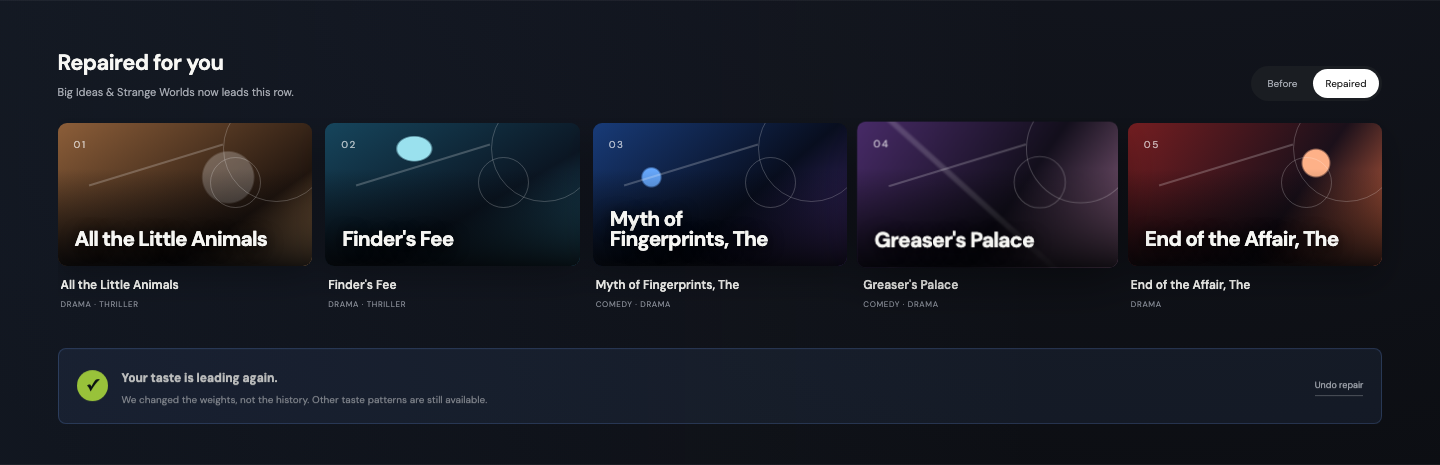
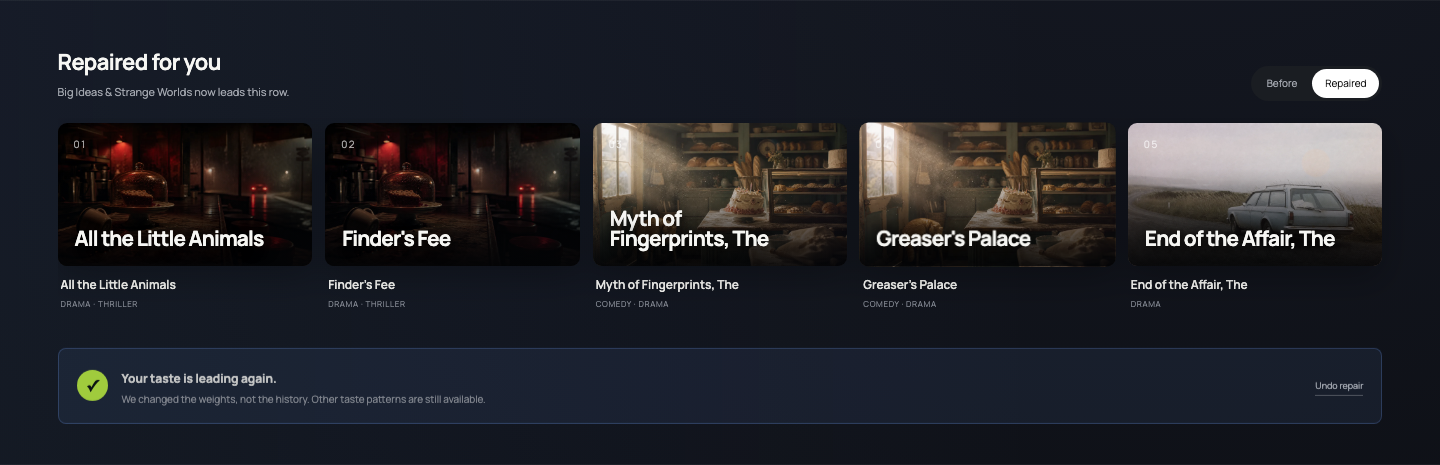
feat: give SplitTaste a cinematic data journal

diff --git a/app/globals.css b/app/globals.css
@@ -9,7 +9,8 @@
   --line: rgba(255, 255, 255, .12);
   --lime: #c9ff45;
   --blue: #75a8ff;
-  --sans: "DM Sans Variable", sans-serif;
+  --sans: "Manrope Variable", sans-serif;
+  --editorial: "Newsreader Variable", Georgia, serif;
 }
 
 * { box-sizing: border-box; }
@@ -39,9 +40,8 @@ button:focus-visible, a:focus-visible, summary:focus-visible { outline: 2px soli
 .living-room-art { position: absolute; inset: 0; background: linear-gradient(120deg, #32251d, #0b0c10 56%, #1a2334); }
 .window-glow { position: absolute; width: 42vw; height: 54vw; max-height: 780px; right: 5vw; top: -16vw; background: radial-gradient(ellipse, rgba(110,151,223,.82), rgba(55,72,106,.25) 38%, transparent 68%); transform: rotate(-9deg); filter: blur(4px); }
 .tv-frame { position: absolute; width: min(48vw, 720px); aspect-ratio: 16/9; right: 7vw; top: 18%; padding: 10px; border-radius: 10px; background: #050608; box-shadow: 0 45px 100px #000, 0 0 120px rgba(73,105,168,.34); transform: perspective(1100px) rotateY(-8deg); }
-.tv-light { width: 100%; height: 100%; position: relative; overflow: hidden; display: grid; place-items: center; background: linear-gradient(135deg, #48536b, #131b2b 42%, #b27960); }
-.tv-light::before { content: ""; position: absolute; inset: 0; background: radial-gradient(circle at 70% 35%, #e9b39d 0 4%, transparent 5%), linear-gradient(125deg, transparent 40%, rgba(255,255,255,.13) 41%, transparent 42%), linear-gradient(to top, #0c1019, transparent 55%); }
-.tv-light::after { content: ""; width: 28%; height: 68%; background: #090b10; border-radius: 45% 45% 12% 12%; transform: translateY(24%); box-shadow: 160px 45px 0 -35px #161119; opacity: .82; }
+.tv-light { width: 100%; height: 100%; position: relative; overflow: hidden; display: grid; place-items: center; background: url("/images/film-stills/blue-orbit.webp") center / cover; }
+.tv-light::before { content: ""; position: absolute; inset: 0; background: linear-gradient(125deg, transparent 40%, rgba(255,255,255,.13) 41%, transparent 42%), linear-gradient(to top, rgba(5,8,15,.86), transparent 58%); }
 .tv-light span { position: absolute; z-index: 2; bottom: 8%; left: 6%; font-size: 11px; letter-spacing: .25em; color: rgba(255,255,255,.7); }
 .couch { position: absolute; right: -3vw; bottom: -9%; width: 63vw; height: 37%; border-radius: 48% 22% 0 0; background: linear-gradient(165deg, #211f20, #08090b 70%); box-shadow: inset 0 18px 30px rgba(255,255,255,.025); }
 .couch i { position: absolute; width: 22%; height: 46%; top: 7%; border-radius: 48% 48% 10% 10%; background: #161617; box-shadow: 0 12px 25px #050506; }
@@ -66,6 +66,7 @@ button:focus-visible, a:focus-visible, summary:focus-visible { outline: 2px soli
 .hero-facts span { border: 1px solid rgba(255,255,255,.19); border-radius: 999px; padding: 6px 10px; color: #c2c5cb; font-size: 9px; text-transform: uppercase; letter-spacing: .11em; }
 
 .catalog { position: relative; z-index: 4; margin-top: -52px; padding-bottom: 80px; }
+.catalog-art-note { margin: 0 4vw 4px; color: #737985; font-size: 8px; letter-spacing: .11em; text-transform: uppercase; text-align: right; }
 .content-rail { padding: 32px 0 22px 4vw; scroll-margin-top: 80px; }
 .content-rail > header { padding-right: 4vw; display: flex; justify-content: space-between; align-items: flex-end; gap: 30px; margin-bottom: 17px; }
 .content-rail > header h2 { margin: 0; font-size: 22px; letter-spacing: -.025em; font-weight: 650; }
@@ -75,7 +76,9 @@ button:focus-visible, a:focus-visible, summary:focus-visible { outline: 2px soli
 .movie-card { scroll-snap-align: start; min-width: 0; }
 .movie-art { aspect-ratio: 16/9; border-radius: 9px; position: relative; overflow: hidden; isolation: isolate; padding: 17px; display: flex; flex-direction: column; justify-content: flex-end; box-shadow: 0 12px 34px rgba(0,0,0,.28); transform: translateZ(0); transition: transform .25s, box-shadow .25s; }
 .movie-card:hover .movie-art { transform: scale(1.035); box-shadow: 0 18px 45px rgba(0,0,0,.46); z-index: 2; }
-.movie-art::before { content: ""; position: absolute; inset: 0; z-index: -2; background: var(--card-bg); }
+.movie-still { z-index: -3; object-fit: cover; transition: transform .55s cubic-bezier(.2,.8,.2,1), filter .3s; }
+.movie-card:hover .movie-still { transform: scale(1.055); }
+.movie-art::before { content: ""; position: absolute; inset: 0; z-index: -2; background: var(--card-bg); mix-blend-mode: color; opacity: .14; }
 .movie-art::after { content: ""; position: absolute; inset: 0; z-index: -1; background: linear-gradient(to top, rgba(4,5,7,.9), transparent 68%); }
 .theme-ember { --card-bg: radial-gradient(circle at 74% 28%, #ffb289 0 6%, transparent 7%), linear-gradient(125deg, #761f22, #1c111b 62%, #db6b45); }
 .theme-ocean { --card-bg: radial-gradient(ellipse at 35% 18%, #9be2ef 0 7%, transparent 8%), linear-gradient(150deg, #17465d, #0c1724 60%, #276781); }
@@ -115,33 +118,43 @@ button:focus-visible, a:focus-visible, summary:focus-visible { outline: 2px soli
 .story-body ul { list-style: none; padding: 25px 0 0; margin: 25px 0 0; border-top: 1px solid rgba(17,18,20,.2); }
 .story-body li { padding: 8px 0; border-bottom: 1px solid rgba(17,18,20,.13); }
 
-.research-section { padding: 115px 6vw; background: #14161a; }
-.research-hero { display: grid; grid-template-columns: 1.4fr .6fr; gap: 8vw; align-items: end; }
-.research-hero > div > p, .pipeline-copy > p, .chart-heading p, .finding-grid article > p { color: #848993; font-size: 9px; letter-spacing: .14em; text-transform: uppercase; }
-.research-hero h2 { font-size: clamp(43px, 5vw, 72px); line-height: .98; letter-spacing: -.05em; margin: 17px 0 0; max-width: 900px; }
-.research-hero > p { color: var(--muted); line-height: 1.65; font-size: 13px; margin: 0; }
-.data-scale-grid { margin-top: 75px; display: grid; grid-template-columns: 1.2fr repeat(4, 1fr); border-top: 1px solid var(--line); border-bottom: 1px solid var(--line); }
+.research-section { --line: rgba(25,23,19,.2); --muted: #6f6a61; --lime: #96392e; --blue: #315e68; padding: 95px 6vw 115px; background: #e8e2d7; color: #181713; }
+.research-hero { display: grid; grid-template-columns: .82fr 1.18fr; gap: 6vw; align-items: stretch; }
+.research-title { padding: 6px 0 30px; display: flex; flex-direction: column; align-items: flex-start; }
+.research-title > p, .pipeline-copy > p, .chart-heading p, .finding-grid article > p { color: #736e65; font-size: 9px; letter-spacing: .16em; text-transform: uppercase; }
+.research-title h2 { font-family: var(--editorial); font-size: clamp(66px, 8vw, 122px); font-weight: 450; line-height: .78; letter-spacing: -.065em; margin: auto 0 35px; }
+.research-title h2 em { color: #96392e; font-weight: 360; }
+.research-title > span { padding-top: 14px; border-top: 1px solid var(--line); color: #59554f; font-size: 11px; text-transform: uppercase; letter-spacing: .11em; }
+.research-hero-still { min-height: 590px; margin: 0; position: relative; overflow: hidden; background: #20242c; }
+.research-hero-still > img { position: absolute; inset: 0; width: 100%; height: 100%; object-fit: cover; }
+.research-hero-still::after { content: ""; position: absolute; inset: 0; box-shadow: inset 0 0 0 1px rgba(0,0,0,.16); pointer-events: none; }
+.research-hero-still figcaption { position: absolute; inset: auto 0 0; z-index: 1; padding: 17px 20px; display: flex; justify-content: space-between; gap: 25px; color: #f4f0e8; background: linear-gradient(transparent, rgba(6,8,13,.88)); font-size: 9px; letter-spacing: .08em; text-transform: uppercase; }
+.research-hero-still figcaption b { color: #cfdb54; }
+.research-deck { margin-top: 44px; padding: 24px 0; border-top: 1px solid var(--line); border-bottom: 1px solid var(--line); display: grid; grid-template-columns: 1.2fr .8fr; gap: 8vw; align-items: start; }
+.research-deck p { max-width: 780px; margin: 0; font-family: var(--editorial); font-size: clamp(35px, 4.3vw, 68px); line-height: .93; letter-spacing: -.045em; }
+.research-deck span { color: #625e57; font-size: 12px; line-height: 1.7; }
+.data-scale-grid { margin-top: 75px; display: grid; grid-template-columns: 1.2fr repeat(4, 1fr); border-top: 2px solid #181713; border-bottom: 1px solid var(--line); }
 .data-scale-grid > div { min-height: 150px; padding: 25px 20px; border-right: 1px solid var(--line); display: flex; flex-direction: column; justify-content: space-between; }
 .data-scale-grid > div:last-child { border-right: 0; }
-.data-scale-grid strong { font-size: clamp(28px, 3vw, 46px); letter-spacing: -.055em; font-weight: 560; }
+.data-scale-grid strong { font-family: var(--editorial); font-size: clamp(36px, 4vw, 62px); letter-spacing: -.055em; font-weight: 430; }
 .data-scale-grid span { color: var(--muted); font-size: 9px; text-transform: uppercase; letter-spacing: .1em; }
 .scale-intro p { color: var(--lime); font-size: 9px; text-transform: uppercase; letter-spacing: .13em; margin: 0; }
 .scale-intro h3 { margin: auto 0 5px; font-size: 25px; }
 .pipeline-story { margin-top: 90px; display: grid; grid-template-columns: .65fr 1.35fr; gap: 6vw; align-items: start; }
-.pipeline-copy h3 { font-size: clamp(30px, 3.4vw, 49px); line-height: 1.02; letter-spacing: -.045em; margin: 16px 0 20px; }
+.pipeline-copy h3 { font-family: var(--editorial); font-size: clamp(38px, 4.5vw, 66px); font-weight: 420; line-height: .93; letter-spacing: -.045em; margin: 16px 0 20px; }
 .pipeline-copy > span { color: var(--muted); font-size: 11px; line-height: 1.55; }
 .pipeline-flow { display: grid; grid-template-columns: 1fr auto 1fr auto 1fr auto 1fr; align-items: stretch; }
-.pipeline-flow > div { min-height: 205px; padding: 19px; border: 1px solid var(--line); display: flex; flex-direction: column; }
+.pipeline-flow > div { min-height: 205px; padding: 19px; border-top: 2px solid #181713; border-bottom: 1px solid var(--line); display: flex; flex-direction: column; }
 .pipeline-flow > i { align-self: center; color: #717680; padding: 0 7px; font-style: normal; }
 .pipeline-flow b { color: var(--lime); font-size: 9px; letter-spacing: .14em; }
 .pipeline-flow strong { font-size: 17px; margin-top: auto; }
 .pipeline-flow span { font-size: 11px; margin-top: 8px; }
 .pipeline-flow small { color: var(--muted); font-size: 8px; line-height: 1.5; margin-top: 8px; }
 .research-charts { margin-top: 95px; display: grid; grid-template-columns: .85fr 1.15fr; gap: 14px; }
-.correction-chart, .cohort-explorer { min-width: 0; background: #f0eee7; color: #131518; border-radius: 10px; padding: 27px; }
+.correction-chart, .cohort-explorer { min-width: 0; background: #d8d0c2; color: #131518; border-radius: 0; padding: 30px; border-top: 5px solid #181713; }
 .chart-heading { display: flex; justify-content: space-between; align-items: flex-start; gap: 20px; min-height: 75px; }
 .chart-heading p { color: #6d7074; margin: 0 0 9px; }
-.chart-heading h3 { font-size: 23px; line-height: 1.05; letter-spacing: -.035em; margin: 0; }
+.chart-heading h3 { font-family: var(--editorial); font-size: 30px; font-weight: 440; line-height: .98; letter-spacing: -.035em; margin: 0; }
 .chart-heading > span { color: #777a7f; font-size: 8px; text-transform: uppercase; letter-spacing: .1em; text-align: right; }
 .correction-chart svg { width: 100%; margin-top: 30px; overflow: visible; }
 .correction-chart .grid-line { stroke: #d2d0ca; stroke-width: 1; }
@@ -166,23 +179,30 @@ button:focus-visible, a:focus-visible, summary:focus-visible { outline: 2px soli
 .cohort-delta { justify-self: end; color: #237544; font-size: 9px; font-variant-numeric: tabular-nums; }
 .cohort-delta.negative { color: #b33f36; }
 .cohort-reading { color: #7c7f83; font-size: 8px; line-height: 1.45; margin: 18px 0 0; }
-.finding-grid { margin-top: 14px; display: grid; grid-template-columns: repeat(3, 1fr); gap: 1px; background: var(--line); border: 1px solid var(--line); }
-.finding-grid article { background: #14161a; padding: 30px; min-height: 230px; display: flex; flex-direction: column; }
+.research-contact-sheet { margin-top: 14px; display: grid; grid-template-columns: repeat(3, 1fr); gap: 8px; }
+.research-contact-sheet figure { min-height: 260px; margin: 0; position: relative; overflow: hidden; background: #202020; }
+.research-contact-sheet img { position: absolute; inset: 0; width: 100%; height: 100%; object-fit: cover; filter: saturate(.88); transition: transform .5s ease, filter .3s; }
+.research-contact-sheet figure:hover img { transform: scale(1.03); filter: saturate(1); }
+.research-contact-sheet figcaption { position: absolute; inset: auto 0 0; z-index: 1; padding: 45px 14px 13px; display: flex; justify-content: space-between; color: white; background: linear-gradient(transparent, rgba(5,5,5,.85)); font-size: 9px; text-transform: uppercase; letter-spacing: .1em; }
+.research-contact-sheet figcaption b { color: #cfdb54; }
+.art-credit { margin: 9px 0 0; color: #777168; font-size: 8px; text-align: right; }
+.finding-grid { margin-top: 70px; display: grid; grid-template-columns: repeat(3, 1fr); gap: 1px; background: var(--line); border-top: 2px solid #181713; border-bottom: 1px solid var(--line); }
+.finding-grid article { background: #e8e2d7; padding: 30px; min-height: 230px; display: flex; flex-direction: column; }
 .finding-grid article > p { color: var(--lime); margin: 0; }
-.finding-grid strong { font-size: 20px; line-height: 1.15; margin-top: auto; }
+.finding-grid strong { font-family: var(--editorial); font-size: 27px; font-weight: 450; line-height: 1.05; margin-top: auto; }
 .finding-grid span { color: var(--muted); font-size: 10px; line-height: 1.55; margin-top: 14px; }
 .role-proof { margin-top: 75px; display: grid; grid-template-columns: repeat(3, 1fr); border-top: 1px solid var(--line); border-bottom: 1px solid var(--line); }
 .role-proof > div { padding: 25px; border-right: 1px solid var(--line); }
 .role-proof > div:last-child { border-right: 0; }
 .role-proof span { color: var(--blue); font-size: 9px; text-transform: uppercase; letter-spacing: .12em; }
-.role-proof p { color: #c1c4ca; font-size: 11px; line-height: 1.55; margin: 14px 0 0; }
+.role-proof p { color: #4f4c46; font-size: 11px; line-height: 1.55; margin: 14px 0 0; }
 .evidence-panel { margin-top: 70px; border-top: 1px solid var(--line); border-bottom: 1px solid var(--line); }
 .evidence-panel summary { list-style: none; padding: 22px 0; display: flex; justify-content: space-between; cursor: pointer; font-size: 12px; }
 .evidence-panel summary span:last-child { color: var(--muted); font-size: 10px; }
 .evidence-panel summary b { color: var(--lime); padding-left: 12px; }
 .evidence-grid { display: grid; grid-template-columns: .8fr 1fr; gap: 55px; padding: 30px 0 60px; }
 .metric-lead p { color: var(--muted); font-size: 9px; text-transform: uppercase; letter-spacing: .13em; }
-.metric-lead strong { display: block; font-size: 90px; line-height: 1; letter-spacing: -.07em; font-weight: 500; }
+.metric-lead strong { display: block; font-family: var(--editorial); font-size: 100px; line-height: 1; letter-spacing: -.07em; font-weight: 430; }
 .metric-lead span { color: var(--muted); font-size: 10px; }
 .evidence-grid dl { margin: 0; }
 .evidence-grid dl div { display: flex; justify-content: space-between; padding: 12px 0; border-bottom: 1px solid var(--line); font-size: 11px; }
@@ -190,7 +210,7 @@ button:focus-visible, a:focus-visible, summary:focus-visible { outline: 2px soli
 .evidence-grid dd { margin: 0; font-variant-numeric: tabular-nums; }
 .claim-box { grid-column: 1 / -1; border: 1px solid var(--line); border-radius: 7px; padding: 16px; display: flex; gap: 12px; }
 .claim-box p { margin: 0; color: var(--muted); font-size: 11px; line-height: 1.55; }
-.claim-box strong { color: white; }
+.claim-box strong { color: #181713; }
 .claim-dot { width: 8px; height: 8px; border-radius: 50%; background: #f76b56; margin-top: 5px; flex: 0 0 auto; }
 .claim-dot.supported { background: var(--lime); }
 
@@ -217,8 +237,10 @@ footer a { text-decoration: none; }
 .lane-option { min-height: 275px; padding: 0; overflow: hidden; position: relative; text-align: left; border: 1px solid #cecfcc; border-radius: 10px; background: #fff; cursor: pointer; transition: transform .2s, border-color .2s, box-shadow .2s; }
 .lane-option:hover { transform: translateY(-4px); box-shadow: 0 13px 30px rgba(17,19,24,.1); }
 .lane-option.selected { border: 2px solid #15171a; }
-.lane-preview { height: 145px; display: flex; gap: 6px; padding: 17px; background: linear-gradient(140deg, color-mix(in srgb, var(--lane-accent) 50%, #111), #101216); }
-.lane-preview i { flex: 1; border-radius: 4px; display: grid; place-items: center; font-style: normal; font-weight: 800; color: rgba(255,255,255,.76); background: rgba(255,255,255,.12); border: 1px solid rgba(255,255,255,.15); }
+.lane-preview { height: 145px; position: relative; overflow: hidden; display: flex; align-items: flex-end; gap: 6px; padding: 17px; background: #101216; }
+.lane-preview::after { content: ""; position: absolute; inset: 0; background: linear-gradient(transparent 25%, rgba(8,9,12,.78)); }
+.lane-preview > img { object-fit: cover; }
+.lane-preview i { position: relative; z-index: 1; flex: 1; height: 48px; border-radius: 2px; display: grid; place-items: center; font-style: normal; font-weight: 800; color: rgba(255,255,255,.82); background: rgba(10,11,14,.36); border: 1px solid rgba(255,255,255,.22); backdrop-filter: blur(5px); }
 .lane-preview .preview-1 { transform: rotate(-4deg) translateY(6px); }
 .lane-preview .preview-3 { transform: rotate(4deg) translateY(6px); }
 .lane-copy { display: grid; padding: 18px; }
@@ -259,6 +281,9 @@ footer a { text-decoration: none; }
   .tv-frame { width: 58vw; right: -3vw; opacity: .72; }
   .rail-track { grid-auto-columns: minmax(220px, 34vw); }
   .product-story, .research-hero, .pipeline-story { grid-template-columns: 1fr; }
+  .research-title { min-height: 430px; }
+  .research-hero-still { min-height: 520px; }
+  .research-deck { grid-template-columns: 1fr; gap: 25px; }
   .story-index { display: none; }
   .story-body { max-width: 650px; }
   .data-scale-grid { grid-template-columns: repeat(2, 1fr); }
@@ -304,12 +329,21 @@ footer a { text-decoration: none; }
   .rail-repair { max-width: 105px; text-align: left; }
   .repair-receipt { margin-right: 20px; grid-template-columns: auto 1fr; }
   .repair-receipt button { grid-column: 2; justify-self: start; }
-  .product-story, .research-section { padding: 82px 20px; }
-  .story-copy h2, .research-hero h2 { font-size: 40px; }
+  .product-story { padding: 82px 20px; }
+  .research-section { padding: 70px 20px 82px; }
+  .story-copy h2 { font-size: 40px; }
+  .research-title { min-height: 390px; }
+  .research-title h2 { font-size: 68px; }
+  .research-hero-still { min-height: 330px; }
+  .research-hero-still figcaption { align-items: flex-end; }
+  .research-hero-still figcaption span { max-width: 190px; text-align: right; }
+  .research-deck p { font-size: 42px; }
   .data-scale-grid { grid-template-columns: 1fr 1fr; }
   .data-scale-grid > div { min-height: 125px; }
   .pipeline-flow { margin-right: -20px; }
   .correction-chart, .cohort-explorer { padding: 20px 15px; }
+  .research-contact-sheet { grid-template-columns: 1fr; }
+  .research-contact-sheet figure { min-height: 230px; }
   .cohort-row { grid-template-columns: 86px 1fr 37px; gap: 8px; }
   .chart-heading { flex-direction: column; }
   .chart-heading > span { text-align: left; }

diff --git a/components/SplitTasteExperience.tsx b/components/SplitTasteExperience.tsx
@@ -1,6 +1,7 @@
 "use client";
 
 import { useEffect, useMemo, useRef, useState } from "react";
+import Image from "next/image";
 import { bestOtherLane, laneRecommendations, type Assignments } from "@/lib/recommend";
 import type { CohortResult, DemoBundle, LaneId, MovieVector, TasteLane } from "@/types/demo";
 
@@ -14,10 +15,32 @@ const laneCopy: Record<LaneId, { name: string; description: string }> = {
 };
 
 const cardThemes = ["ember", "ocean", "violet", "sand", "forest", "cobalt"] as const;
+const filmStills = {
+  blueOrbit: "/images/film-stills/blue-orbit.webp",
+  lastWash: "/images/film-stills/last-wash.webp",
+  afterHours: "/images/film-stills/after-hours.webp",
+  morningCake: "/images/film-stills/morning-cake.webp",
+  coastalMap: "/images/film-stills/coastal-map.webp",
+  paperCity: "/images/film-stills/paper-city.webp",
+} as const;
 
 function themeFor(movie: MovieVector) {
   const seed = [...movie.movieId].reduce((sum, char) => sum + char.charCodeAt(0), 0);
   return cardThemes[seed % cardThemes.length];
+}
+
+function stillFor(movie: MovieVector) {
+  const genres = new Set(movie.genres);
+  if (genres.has("Animation") || genres.has("Fantasy")) return filmStills.paperCity;
+  if (genres.has("Sci-Fi")) return filmStills.blueOrbit;
+  if (genres.has("Crime") || genres.has("Thriller") || genres.has("Horror")) return filmStills.afterHours;
+  if (genres.has("Comedy")) return filmStills.morningCake;
+  if (genres.has("Adventure") || genres.has("Action")) return filmStills.coastalMap;
+  return Number(movie.movieId.replace(/\D/g, "").slice(-1) || 0) % 2 ? filmStills.lastWash : filmStills.coastalMap;
+}
+
+function laneStill(lane: LaneId) {
+  return lane === "lane-a" ? filmStills.afterHours : lane === "lane-b" ? filmStills.blueOrbit : filmStills.lastWash;
 }
 
 function ArrowIcon() {
@@ -34,7 +57,7 @@ function MovieCard({ movie, index, signal, compact = false }: { movie: MovieVect
   return (
     <article className={`movie-card theme-${themeFor(movie)} ${compact ? "compact" : ""}`}>
       <div className="movie-art" aria-hidden="true">
-        <i /><i /><i />
+        <Image className="movie-still" src={stillFor(movie)} alt="" fill priority={index === 1} sizes={compact ? "370px" : "(max-width: 600px) 72vw, 19vw"} />
         <span className="art-mark">{String(index ?? 1).padStart(2, "0")}</span>
         <strong>{movie.title}</strong>
       </div>
@@ -70,6 +93,7 @@ function LaneOption({ lane, selected, onSelect }: { lane: TasteLane; selected: b
       aria-pressed={selected}
     >
       <span className="lane-preview" aria-hidden="true">
+        <Image src={laneStill(lane.id)} alt="" fill sizes="300px" />
         {lane.anchorTitles.slice(0, 3).map((title, index) => <i key={title} className={`preview-${index + 1}`}>{title.slice(0, 1)}</i>)}
       </span>
       <span className="lane-copy"><strong>{copy.name}</strong><small>{copy.description}</small></span>
@@ -260,9 +284,14 @@ function ResearchSection({ bundle }: { bundle: DemoBundle }) {
   return (
     <section className="research-section" id="evidence">
       <header className="research-hero">
-        <div><p>02 · Data & evaluation</p><h2>The demo is the front door.<br />This is the work behind it.</h2></div>
-        <p>Built for a hiring manager who wants to inspect data engineering, modeling choices, product metrics, and what failed—not just click through a polished prototype.</p>
+        <div className="research-title"><p>SplitTaste research journal · Issue 01</p><h2>Behind the<br /><em>home row.</em></h2><span>A MovieLens field study in synthetic shared households</span></div>
+        <figure className="research-hero-still">
+          <Image src={filmStills.blueOrbit} alt="An original cinematic illustration of a radio observatory beneath a large moon" width={1600} height={900} sizes="(max-width: 900px) 100vw, 46vw" />
+          <figcaption><b>Figure 01</b><span>The signal is real. The household context is synthetic.</span></figcaption>
+        </figure>
       </header>
+
+      <div className="research-deck"><p>The demo is the front door. This is the work behind it.</p><span>Built for a hiring manager who wants to inspect data engineering, modeling choices, product metrics, and what failed—not just click through a polished prototype.</span></div>
 
       <div className="data-scale-grid">
         <div className="scale-intro"><p>Source dataset</p><h3>MovieLens 32M</h3><span>Official public research dataset</span></div>
@@ -286,6 +315,13 @@ function ResearchSection({ bundle }: { bundle: DemoBundle }) {
       </div>
 
       <div className="research-charts"><CorrectionChart bundle={bundle} /><CohortExplorer rows={bundle.research.cohortResults} /></div>
+
+      <div className="research-contact-sheet" aria-label="Original illustrative film stills">
+        <figure><Image src={filmStills.morningCake} alt="An original cinematic illustration of a bakery in morning light" width={1600} height={900} sizes="33vw" /><figcaption><b>01</b><span>Raw taste signals</span></figcaption></figure>
+        <figure><Image src={filmStills.lastWash} alt="An original cinematic illustration of two people in a late-night laundromat" width={1600} height={900} sizes="33vw" /><figcaption><b>02</b><span>Mixed household context</span></figcaption></figure>
+        <figure><Image src={filmStills.afterHours} alt="An original cinematic illustration of an empty roadside diner" width={1600} height={900} sizes="33vw" /><figcaption><b>03</b><span>User-guided repair</span></figcaption></figure>
+      </div>
+      <p className="art-credit">Original illustrative stills generated for this noncommercial demo. They are not official artwork for the MovieLens titles shown above.</p>
 
       <div className="finding-grid">
         <article><p>What worked</p><strong>Ranking improved offline after a small number of confirmations.</strong><span>The bootstrap 95% interval for the three-confirmation NDCG delta stayed above zero.</span></article>
@@ -376,6 +412,7 @@ export function SplitTasteExperience({ bundle }: { bundle: DemoBundle }) {
       </section>
 
       <div className="catalog" id="browse">
+        <p className="catalog-art-note">Real MovieLens titles · original illustrative stills, not official film art</p>
         <ContentRail title="Recently watched on this profile" note="One account. More than one taste." movies={recentMovies} signalFirst />
 
         <section className={`content-rail home-recommendations ${complete && !showBefore ? "repaired" : ""}`} ref={homeRowRef} aria-live="polite">

diff --git a/app/layout.tsx b/app/layout.tsx
@@ -1,4 +1,5 @@
-import "@fontsource-variable/dm-sans";
+import "@fontsource-variable/manrope";
+import "@fontsource-variable/newsreader";
 import "./globals.css";
 import type { Metadata } from "next";
 

diff --git a/README.md b/README.md
@@ -27,6 +27,8 @@ The product is the decision loop. The analysis underneath shows whether that loo
 
 The interface uses titles, genres, and tags only. It does not use movie posters or external metadata calls.
 
+The titles shown in the rails are real MovieLens catalog titles. Their imagery is a lightweight set of original illustrative stills generated specifically for this noncommercial demo; it is not official poster or production artwork and is intentionally reused by genre.
+
 ![Before and after recommendation repair](docs/splittaste-results.png)
 
 ## Measured result
@@ -94,6 +96,12 @@ flowchart LR
 - **Model layer:** Truncated SVD learns 32-dimensional movie representations from a deterministic user cohort. Synthetic households combine 2–4 real anonymized rating histories.
 - **Interaction layer:** the user voluntarily labels their own taste pattern; uncertainty and estimated ranking impact determine which title is worth asking about next. “Guest” is never inferred by the model.
 - **Product layer:** the public `DemoBundle` contains no MovieLens user IDs or evaluator ground truth. Recommendation recalculation is local and deterministic.
+
+## Visual system
+
+The product layer uses a restrained streaming-service interface with Manrope. The research layer switches into a film-journal treatment with Newsreader, warm paper tones, archival rules, large tally figures, and image-led transitions. The direction draws from MUBI Notebook's editorial cinema framing, Sight & Sound's poll archive, Letterboxd's image-rich annual statistics, and Criterion Current's spacious magazine layouts without reproducing any of their branding or copyrighted artwork.
+
+Six original 16:9 stills live under `public/images/film-stills/`. They are mapped deterministically by genre so every MovieLens title card has an image while the site makes no external poster requests.
 
 ## Evaluation contract
 
